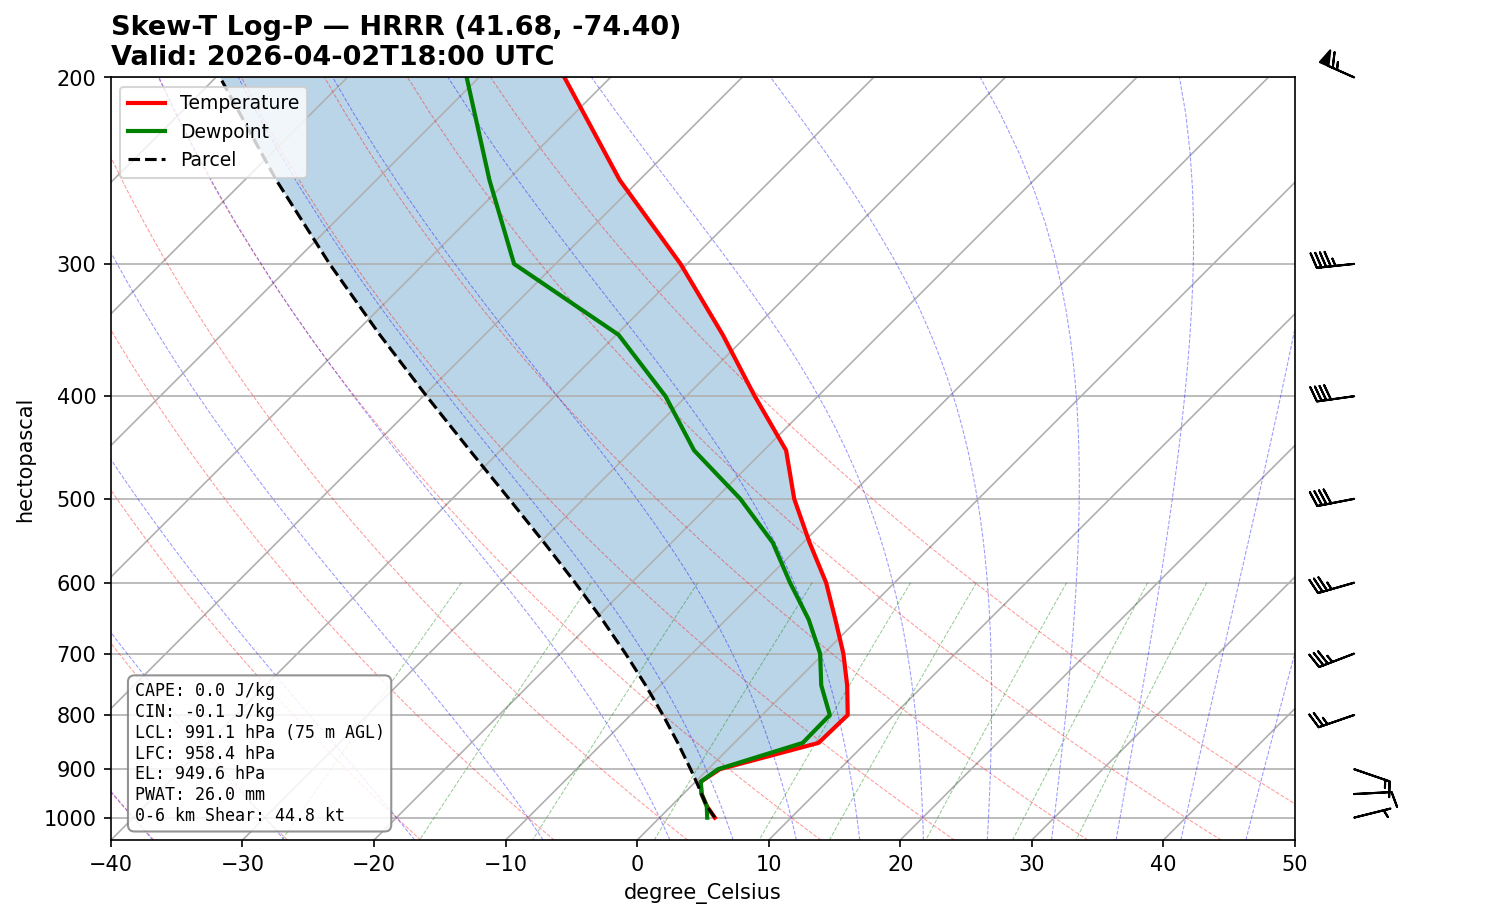
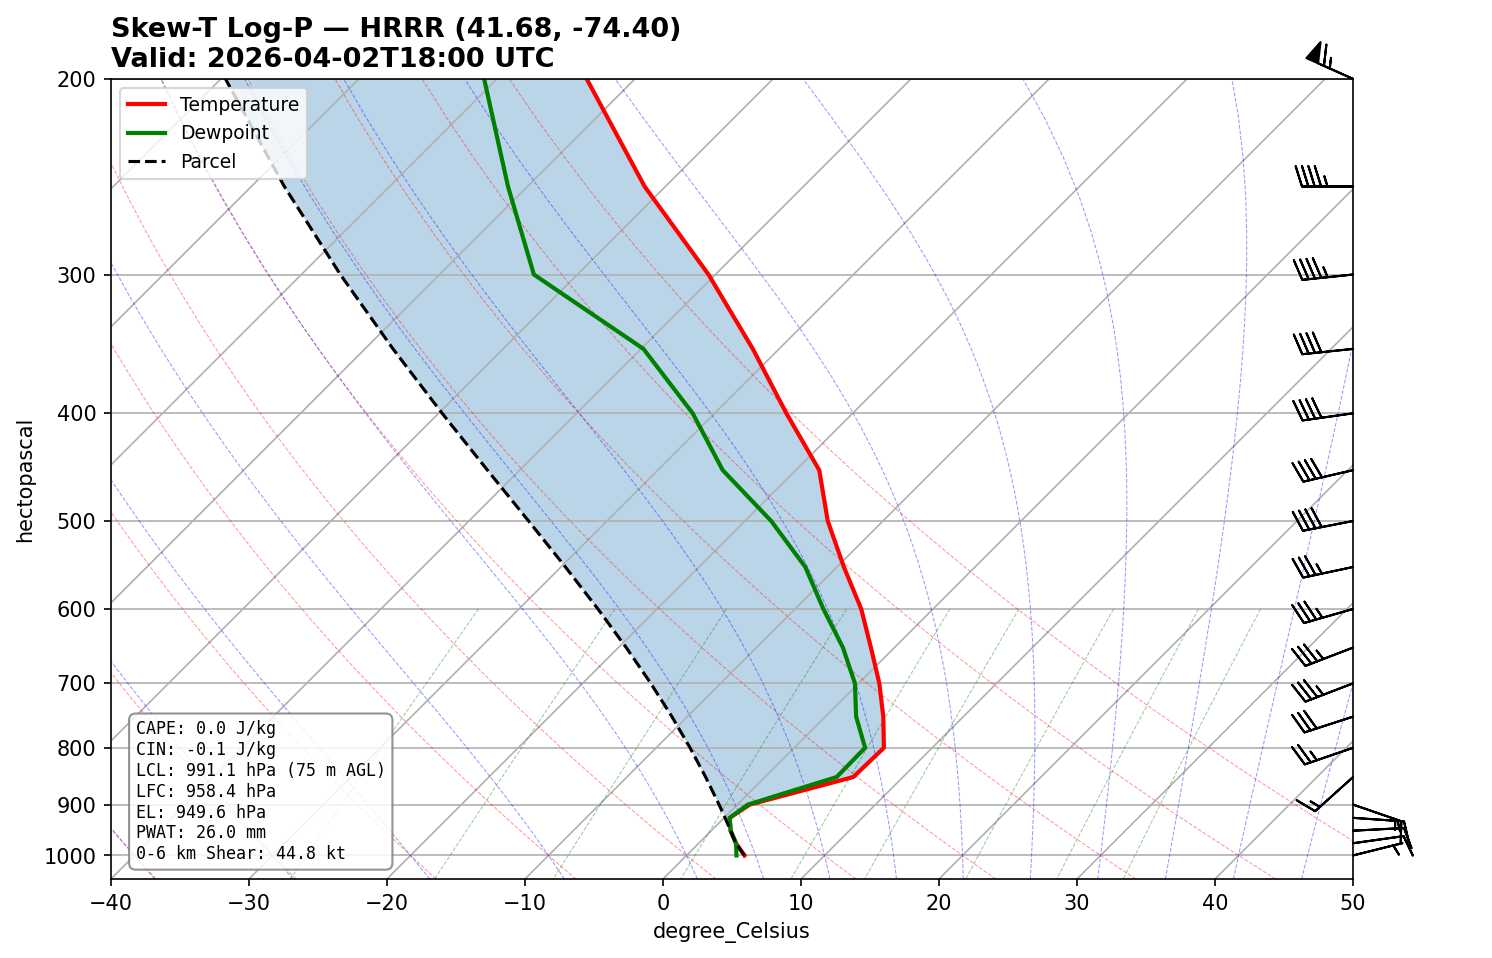
Fix wind barbs: use default MetPy positioning instead of sparse/offset

diff --git a/src/skewt_mcp/plot.py b/src/skewt_mcp/plot.py
@@ -43,12 +43,8 @@ def render_skewt(sounding: dict, indices: dict) -> str:
     # Parcel path
     skew.plot(p, prof, "k--", linewidth=1.5, label="Parcel")
 
-    # Wind barbs — plot every other level to avoid clutter
-    barb_idx = np.arange(0, len(p), 2)
-    skew.plot_barbs(
-        p[barb_idx], u[barb_idx], v[barb_idx],
-        xloc=1.05, length=6,
-    )
+    # Wind barbs — plot all levels, standard positioning
+    skew.plot_barbs(p, u, v)
 
     # CAPE / CIN shading
     try:
